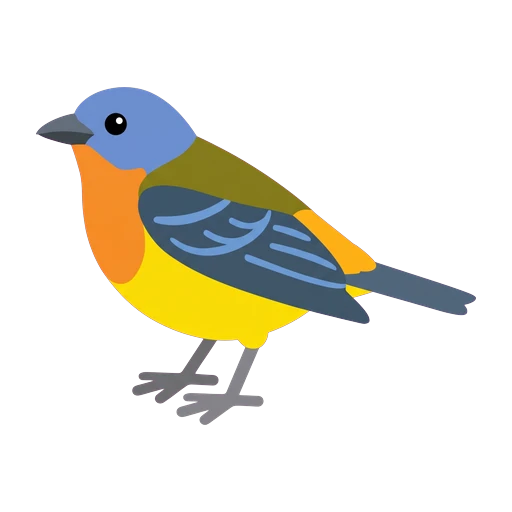
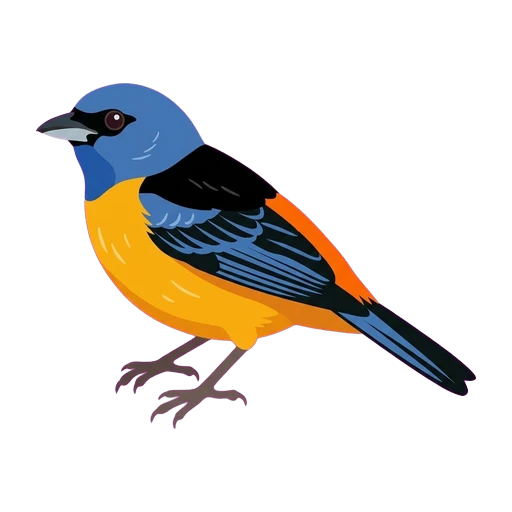
feat(stickers): la ilustración también en los avatares y el póster de hábitat
Las aves registradas ya no muestran la figura del grupo en la tarjeta de
hábitat, el perfil ni el póster de hábitat; las que faltan siguen en
sombra. Se rehízo Rauenia bonariensis, a la que le faltaba el dorso negro.

Changed region(s): [[0.0625, 0.1562, 0.9375, 0.8438]]

diff --git a/apps/mobile/src/screens/profile/edit.tsx b/apps/mobile/src/screens/profile/edit.tsx
@@ -9,6 +9,7 @@ import { BirdAvatar, Button, Icon, TextField, ThemedText, TopBar, useTheme } fro
 import { SettingsSkeleton } from '@/components/screen-skeletons';
 import { AUTH_ERROR_MESSAGES, profileErrors, type ProfileErrors } from '@/constants/account-messages';
 import { stickerTint } from '@/constants/habitats';
+import { STICKER_ART } from '@/constants/sticker-art';
 import { invalidateProfile } from '@/hooks/profile-version';
 import { useAlbum } from '@/hooks/use-album';
 import { useProfile } from '@/hooks/use-profile';
@@ -95,7 +96,7 @@ function EditForm({ profile, onSaved }: { profile: UserProfile; onSaved: () => v
       <ScrollView keyboardShouldPersistTaps="handled" contentContainerStyle={styles.content}>
         <View style={[styles.favorite, { backgroundColor: colors.surface, borderColor: colors.line }]}>
           <View style={styles.favoriteHead}>
-            <BirdAvatar figure={chosen?.species.figure ?? 'gull'} tint={stickerTint(chosen?.species.habitat ?? 'coast')} empty={!chosen} size={64} />
+            <BirdAvatar figure={chosen?.species.figure ?? 'gull'} tint={stickerTint(chosen?.species.habitat ?? 'coast')} empty={!chosen} size={64} art={chosen && STICKER_ART[chosen.species.id]} />
             <View style={styles.flex}>
               <ThemedText variant="eyebrow" color="primary">Tu ave favorita</ThemedText>
               <ThemedText variant="bodyStrong">{chosen?.species.commonName ?? 'Sin elegir'}</ThemedText>
@@ -114,7 +115,7 @@ function EditForm({ profile, onSaved }: { profile: UserProfile; onSaved: () => v
                     accessibilityLabel={entry.species.commonName}
                     onPress={() => setFavorite(entry.species.id)}
                     style={[styles.bird, selected && { boxShadow: `0 0 0 3px ${colors.surface}, 0 0 0 5px ${colors.text}` }]}>
-                    <BirdAvatar figure={entry.species.figure} tint={stickerTint(entry.species.habitat)} chromed={!!entry.sticker?.chrome} size={50} />
+                    <BirdAvatar figure={entry.species.figure} tint={stickerTint(entry.species.habitat)} chromed={!!entry.sticker?.chrome} size={50} art={STICKER_ART[entry.species.id]} />
                   </Pressable>
                 );
               })}

diff --git a/packages/ui/src/components/bird-avatar.tsx b/packages/ui/src/components/bird-avatar.tsx
@@ -4,7 +4,7 @@ import Svg, { ClipPath, Defs, Rect } from 'react-native-svg';
 
 import type { FigureName } from '../figures/figure-svgs';
 import { useTheme } from '../theme/use-theme';
-import { BirdFigure } from './bird-figure';
+import { BirdFigure, type BirdArt } from './bird-figure';
 import { HOLOGRAPHIC } from './sticker-finishes';
 import { ConicFill } from './svg-paint';
 
@@ -17,10 +17,12 @@ type Props = {
   /** Ya salió en cromo: aro holográfico. */
   chromed?: boolean;
   size?: number;
+  /** El dibujo propio de la especie; sin él, la figura de su grupo. */
+  art?: BirdArt;
 };
 
 /** Figurita redonda de las tarjetas de hábitat en Álbum (design/project/Album.dc.html, TemaAlbum). */
-export const BirdAvatar = memo(function BirdAvatar({ figure, tint, empty = false, chromed = false, size = 36 }: Props) {
+export const BirdAvatar = memo(function BirdAvatar({ figure, tint, empty = false, chromed = false, size = 36, art }: Props) {
   const { mode, colors } = useTheme();
   const uid = useId().replace(/[^a-zA-Z0-9]/g, '');
   const ring = chromed && !empty ? 2 : 0;
@@ -55,6 +57,7 @@ export const BirdAvatar = memo(function BirdAvatar({ figure, tint, empty = false
         }}>
         <BirdFigure
           figure={figure}
+          art={art}
           size={inner * (empty ? 0.82 : 0.88)}
           silhouette={empty ? (mode === 'dark' ? { color: '#FFFFFF', opacity: 0.5 } : { color: '#000000', opacity: 0.22 }) : undefined}
         />

diff --git a/apps/mobile/src/screens/profile/index.tsx b/apps/mobile/src/screens/profile/index.tsx
@@ -7,6 +7,7 @@ import { BirdAvatar, Button, Icon, PeruMap, SettingsList, StatusBarScrim, Themed
 
 import { APPEARANCE_LABELS } from '@/constants/appearance';
 import { stickerTint } from '@/constants/habitats';
+import { STICKER_ART } from '@/constants/sticker-art';
 import { useAchievements } from '@/hooks/use-achievements';
 import { useAlbum } from '@/hooks/use-album';
 import { useAppearance } from '@/hooks/use-appearance';
@@ -53,7 +54,7 @@ export function Profile({ onOpen, onOpenAlbum, onOpenRewards }: Props) {
       <ScrollView contentContainerStyle={[styles.content, { paddingTop: insets.top + spacing[4], paddingBottom: layout.tabBar + insets.bottom + spacing[4] }]}>
         <View style={styles.header}>
           <View style={[styles.avatar, { boxShadow: `0 0 0 3px ${colors.surface}, 0 0 0 4px ${colors.line}` }]}>
-            <BirdAvatar figure={favorite?.species.figure ?? 'gull'} tint={stickerTint(favorite?.species.habitat ?? 'coast')} empty={!favorite} size={72} />
+            <BirdAvatar figure={favorite?.species.figure ?? 'gull'} tint={stickerTint(favorite?.species.habitat ?? 'coast')} empty={!favorite} size={72} art={favorite && STICKER_ART[favorite.species.id]} />
           </View>
           <View style={styles.flex}>
             <ThemedText variant="title" accessibilityRole="header" numberOfLines={2}>{profile?.displayName || 'Tu perfil'}</ThemedText>

diff --git a/packages/ui/src/posters/habitat-poster.tsx b/packages/ui/src/posters/habitat-poster.tsx
@@ -1,7 +1,7 @@
 import { Image, StyleSheet, Text, View } from 'react-native';
 import { SvgXml } from 'react-native-svg';
 
-import { BirdFigure } from '../components/bird-figure';
+import { BirdFigure, type BirdArt } from '../components/bird-figure';
 import { HOLOGRAPHIC } from '../components/sticker-finishes';
 import type { FigureName } from '../figures/figure-svgs';
 import { textStyles } from '../theme/fonts';
@@ -21,6 +21,8 @@ export type HabitatPosterCell = {
   ring: 'holo' | 'silver' | null;
   /** «Usar mis fotos»: la foto propia en lugar de la figura. */
   photoUri?: string | null;
+  /** El dibujo propio de la especie; sin él, la figura de su grupo. */
+  art?: BirdArt;
 };
 
 type Props = {
@@ -106,7 +108,7 @@ export function HabitatPoster({ habitat, theme, name, collector, cells, usePhoto
                       <Image source={{ uri: photo }} style={styles.photo} />
                     ) : (
                       <View style={[styles.round, { backgroundColor: cell.tint }]}>
-                        <BirdFigure figure={cell.figure} size={inner} />
+                        <BirdFigure figure={cell.figure} art={cell.art} size={inner} />
                       </View>
                     )
                   ) : (

diff --git a/apps/mobile/src/screens/album/habitat-card.tsx b/apps/mobile/src/screens/album/habitat-card.tsx
@@ -5,6 +5,7 @@ import { radius, spacing } from '@plumario/tokens';
 import { BirdAvatar, Icon, ProgressBar, ThemedText, useTheme } from '@plumario/ui';
 
 import { ALBUM_HABITAT_LABELS, stickerTint } from '@/constants/habitats';
+import { STICKER_ART } from '@/constants/sticker-art';
 
 const PREVIEW = 5;
 
@@ -33,7 +34,7 @@ export function HabitatCard({ section, onPress }: { section: HabitatSection; onP
       <ProgressBar current={section.registered} total={section.total} showValue={false} size="thin" color={colors.habitats[section.habitat]} />
       <View style={styles.preview}>
         {habitatPreview(section, PREVIEW).map(({ species, sticker }) => (
-          <BirdAvatar key={species.id} figure={species.figure} tint={stickerTint(species.habitat)} empty={!sticker} chromed={!!sticker?.chrome} size={36} />
+          <BirdAvatar key={species.id} figure={species.figure} tint={stickerTint(species.habitat)} empty={!sticker} chromed={!!sticker?.chrome} size={36} art={STICKER_ART[species.id]} />
         ))}
         <ThemedText variant="caption" color="textSecondary" style={styles.missing}>
           {missing === 0 ? '¡Completo!' : `${missing} por descubrir`}

diff --git a/apps/mobile/src/components/poster-content.tsx b/apps/mobile/src/components/poster-content.tsx
@@ -76,6 +76,7 @@ export function habitatPosterCells(section: HabitatSection, order: HabitatOrder,
     tint: stickerTint(e.species.habitat),
     ring: e.sticker?.chrome ? (e.category === 'silver' ? 'silver' : 'holo') : null,
     photoUri: photos[e.species.id] ?? null,
+    art: STICKER_ART[e.species.id],
   }));
 }
 
